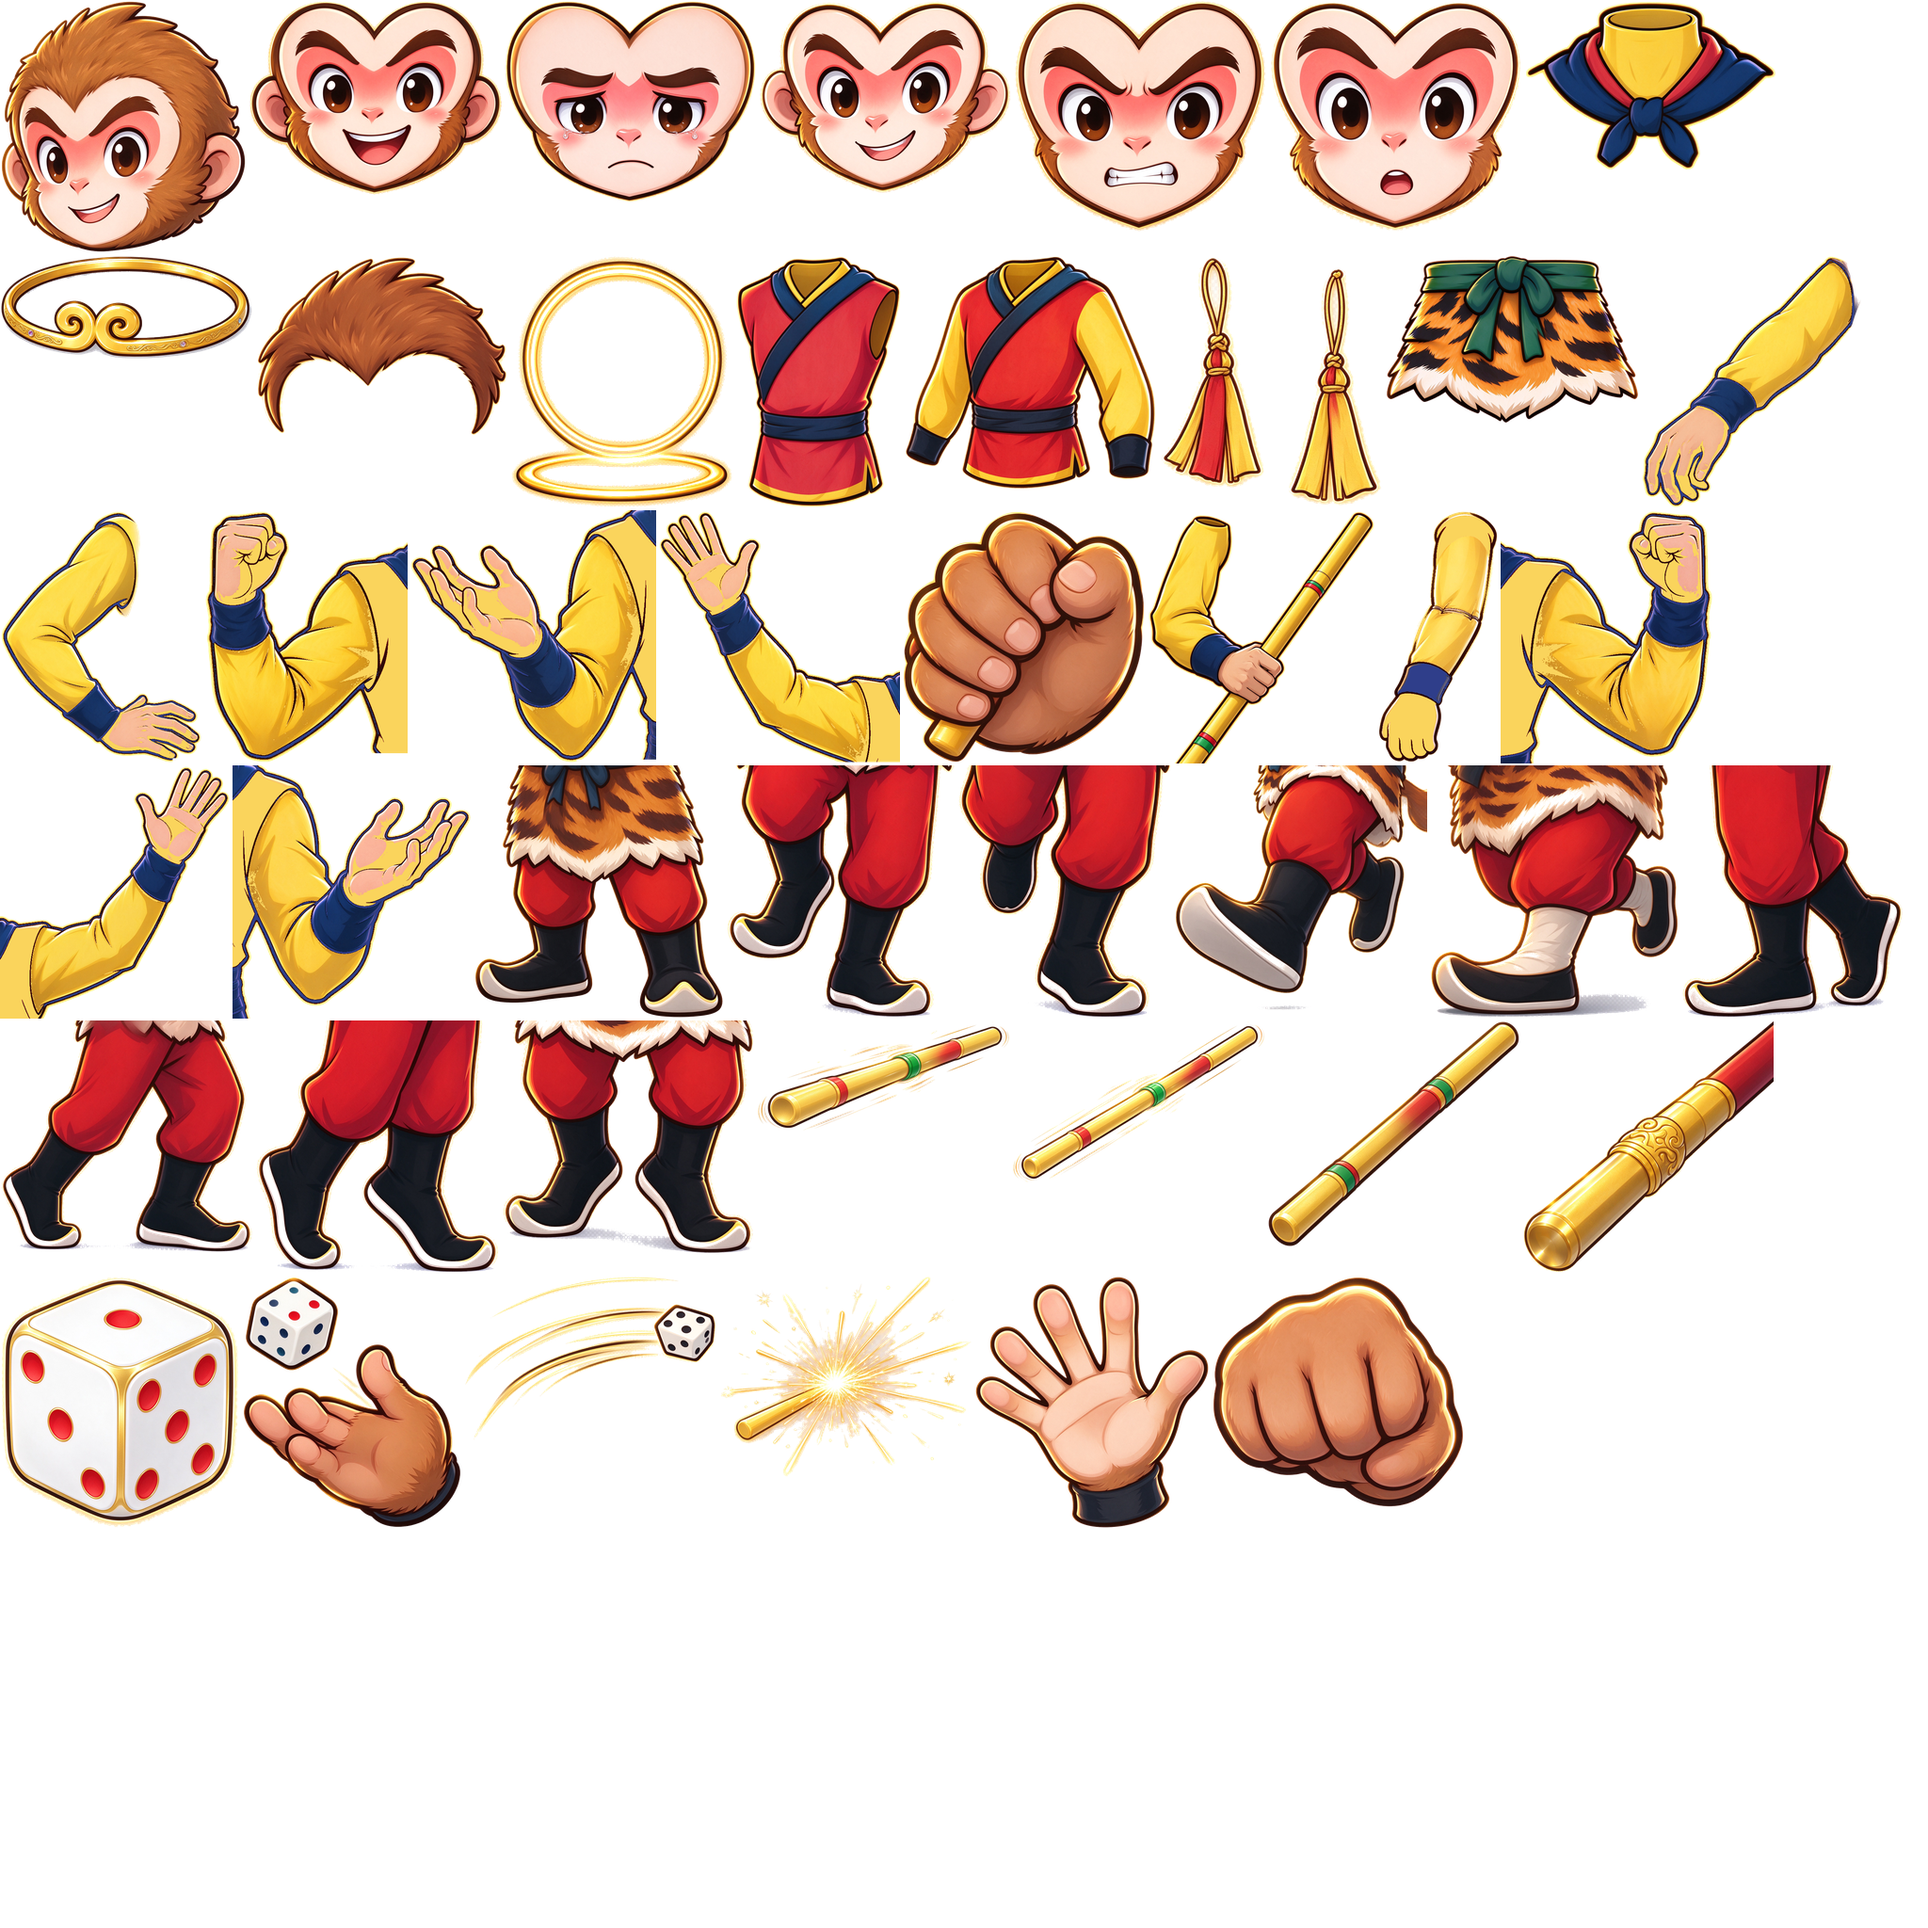
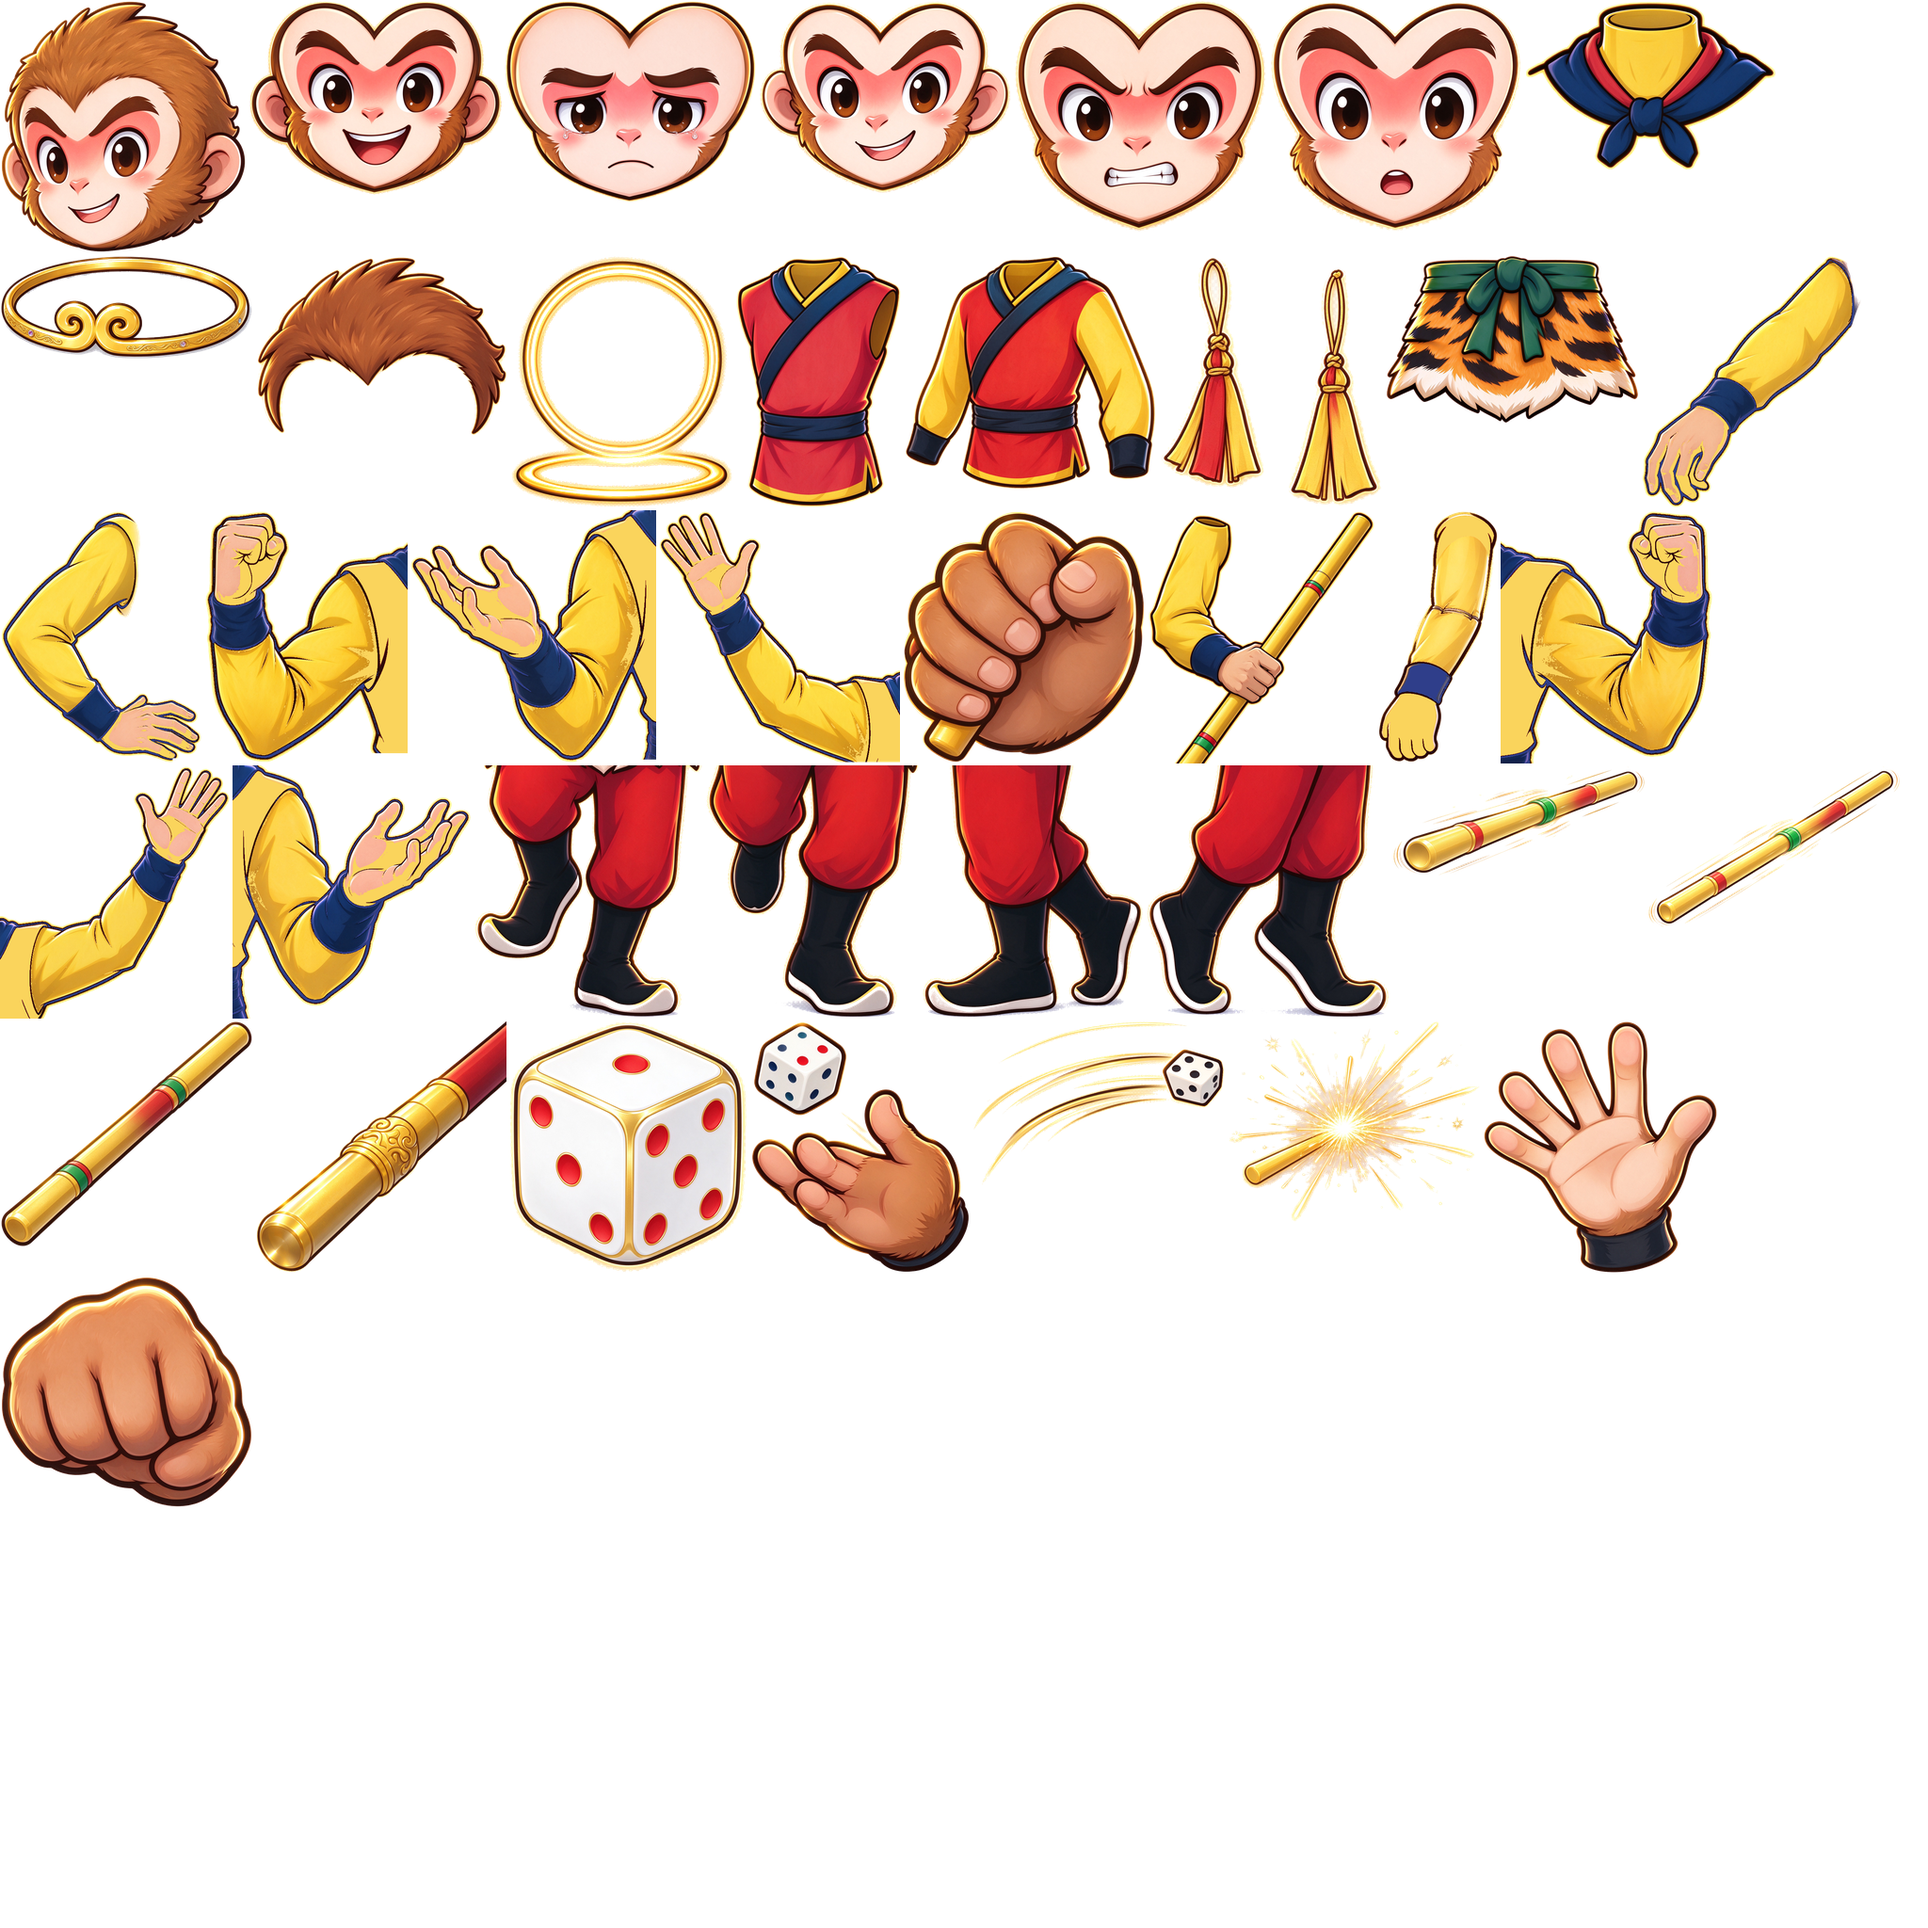
feat(mono-spine): 裙下移10+宽度动态贴合腰身；足部按现存5图重匹配(走1为默认,踮脚交替walk1)

Changed region(s): [[0.0, 0.375, 1.0, 0.8125]]

diff --git a/monopoly/tools/spine-build/build_wukong.py b/monopoly/tools/spine-build/build_wukong.py
@@ -54,15 +54,10 @@ PICK = {
     "孙悟空左手臂手部张开": "arm_r_open",
     "孙悟空左手臂手心朝上抛东西": "arm_r_toss",
     # 腿组（双腿整图）
-    "孙悟空足部正面稍息": "legs_idle",
     "孙悟空足部向前走1": "legs_walk1",
     "孙悟空足部向前走2": "legs_walk2",
-    "孙悟空足部右前方奔跑": "legs_run1",
-    "孙悟空足部右前方奔跑2": "legs_run2",
     "孙悟空足部向右走": "legs_right",
-    "孙悟空足部向左走": "legs_left",
     "孙悟空足部向左踮脚": "legs_tiptoe_l",
-    "孙悟空足部正面踮脚": "legs_tiptoe_f",
     # 棒组
     "孙悟空金箍棒全图15度角": "staff_15",
     "孙悟空金箍棒全图30度角": "staff_30",
@@ -142,7 +137,7 @@ def build_skeleton():
     # 量取关键部件尺寸（骨架单位）
     D = {sem: (w * SCALE, h * SCALE) for sem, (w, h) in
          ((s, img_size(s)) for s in PICK.values())}
-    leg_h = D["legs_idle"][1]
+    leg_h = D["legs_walk1"][1]
     torso_h = D["torso"][1]
     torso_w = D["torso"][0]
     neck_h = D["neck_part"][1]
@@ -161,7 +156,9 @@ def build_skeleton():
     arm_y = round(torso_h * 0.26)
     arm_x = round(arm_w * 0.45)                                  # 臂骨内移贴躯干（用户校准：尽量对齐衣服）
     hand_y = round(arm_h * 0.62)                                 # 手随臂骨（槽内切换时臂图自带手，此骨备用）
-    skirt_y = round(leg_h * 0.12 + 80 + 10 + 20)                 # 裙上移 110（用户校准）：绿腰带盖住躯干蓝腰带消后腰
+    skirt_y = round(leg_h * 0.12 + 80 + 10 + 10)                 # 裙上移 100（用户校准：原110下移10）
+    # 裙宽贴合腰身：目标宽 = 躯干宽×1.05（动态覆盖 SIZE_SCALE，用户校准「裙与腰部大小对齐」）
+    SIZE_SCALE["skirt"] = round(torso_w * 1.05 / D["skirt"][0], 3)
 
     BONES = [
         ("root",     None,     0, 0, {}),
@@ -186,9 +183,8 @@ def build_skeleton():
     # slot: (name, bone, [附件语义名], default)
     SLOTS = [
         # 绘制顺序=数组顺序（后者在上层）：腿→臂在衣服下→躯干→裙/穗→颈→头→手/棒/骰/特效最上
-        ("legs",     "legs",    ["legs_idle", "legs_walk1", "legs_walk2", "legs_run1",
-                                 "legs_run2", "legs_right", "legs_left",
-                                 "legs_tiptoe_l", "legs_tiptoe_f"], "legs_idle"),
+        ("legs",     "legs",    ["legs_walk1", "legs_walk2", "legs_right",
+                                 "legs_tiptoe_l"], "legs_walk1"),
         ("arm_l",    "arm_l",   ["arm_l_down", "arm_l_fork", "arm_l_fist", "arm_l_toss",
                                  "arm_l_open", "arm_l_grip", "arm_l_staff"], "arm_l_down"),
         ("arm_r",    "arm_r",   ["arm_r_down", "arm_r_fist", "arm_r_open", "arm_r_toss"], "arm_r_down"),
@@ -265,7 +261,7 @@ def build_animations():
     att("idle_happy", "arm_l", [(0, "arm_l_fist")])
     att("idle_happy", "head", [(0, "head_laugh")])
     att("idle_happy", "headband", [(0, "headband_hair")])  # 金箍头发一体件：补头发，头发层在金箍上
-    att("idle_happy", "legs", [(0, "legs_tiptoe_f"), (T / 2, "legs_idle"), (T, "legs_tiptoe_f")])
+    att("idle_happy", "legs", [(0, "legs_tiptoe_l"), (T / 2, "legs_walk1"), (T, "legs_tiptoe_l")])
     tra("idle_happy", "hips", [(0, 0, 0), (T / 4, 0, 18), (T / 2, 0, 0),
                                (3 * T / 4, 0, 18), (T, 0, 0)])
     rot("idle_happy", "arm_r", [(0, 0), (T / 4, 8), (T / 2, 0), (3 * T / 4, 8), (T, 0)])
